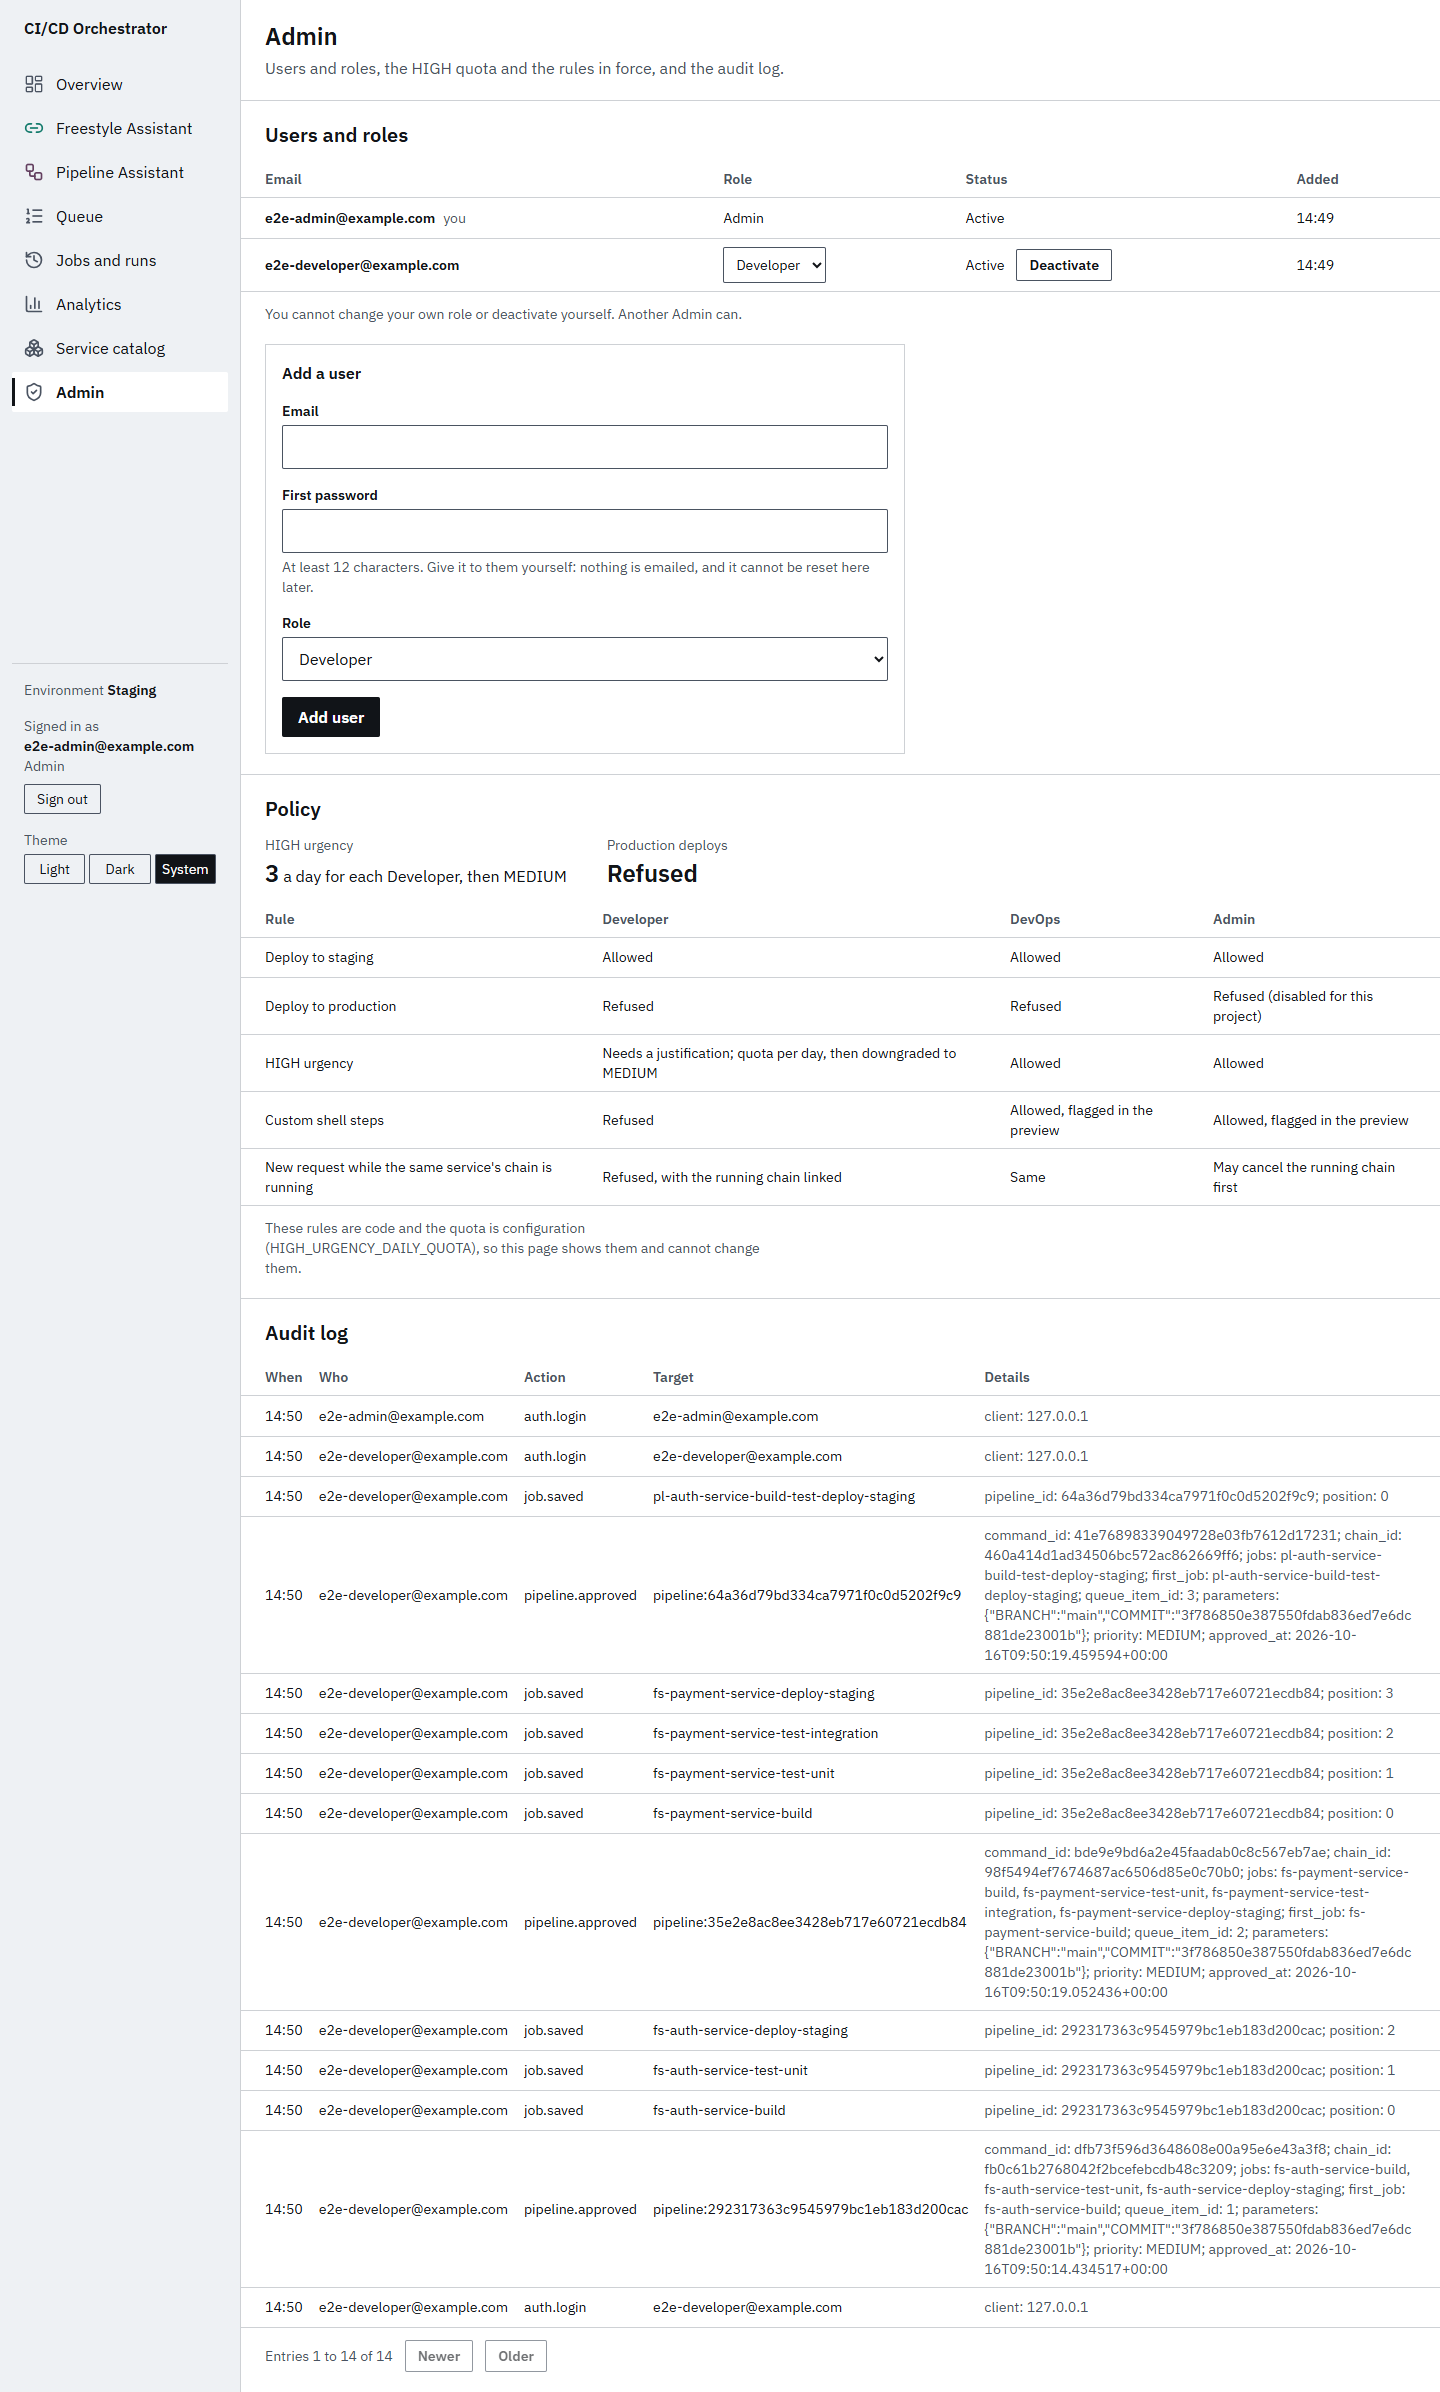
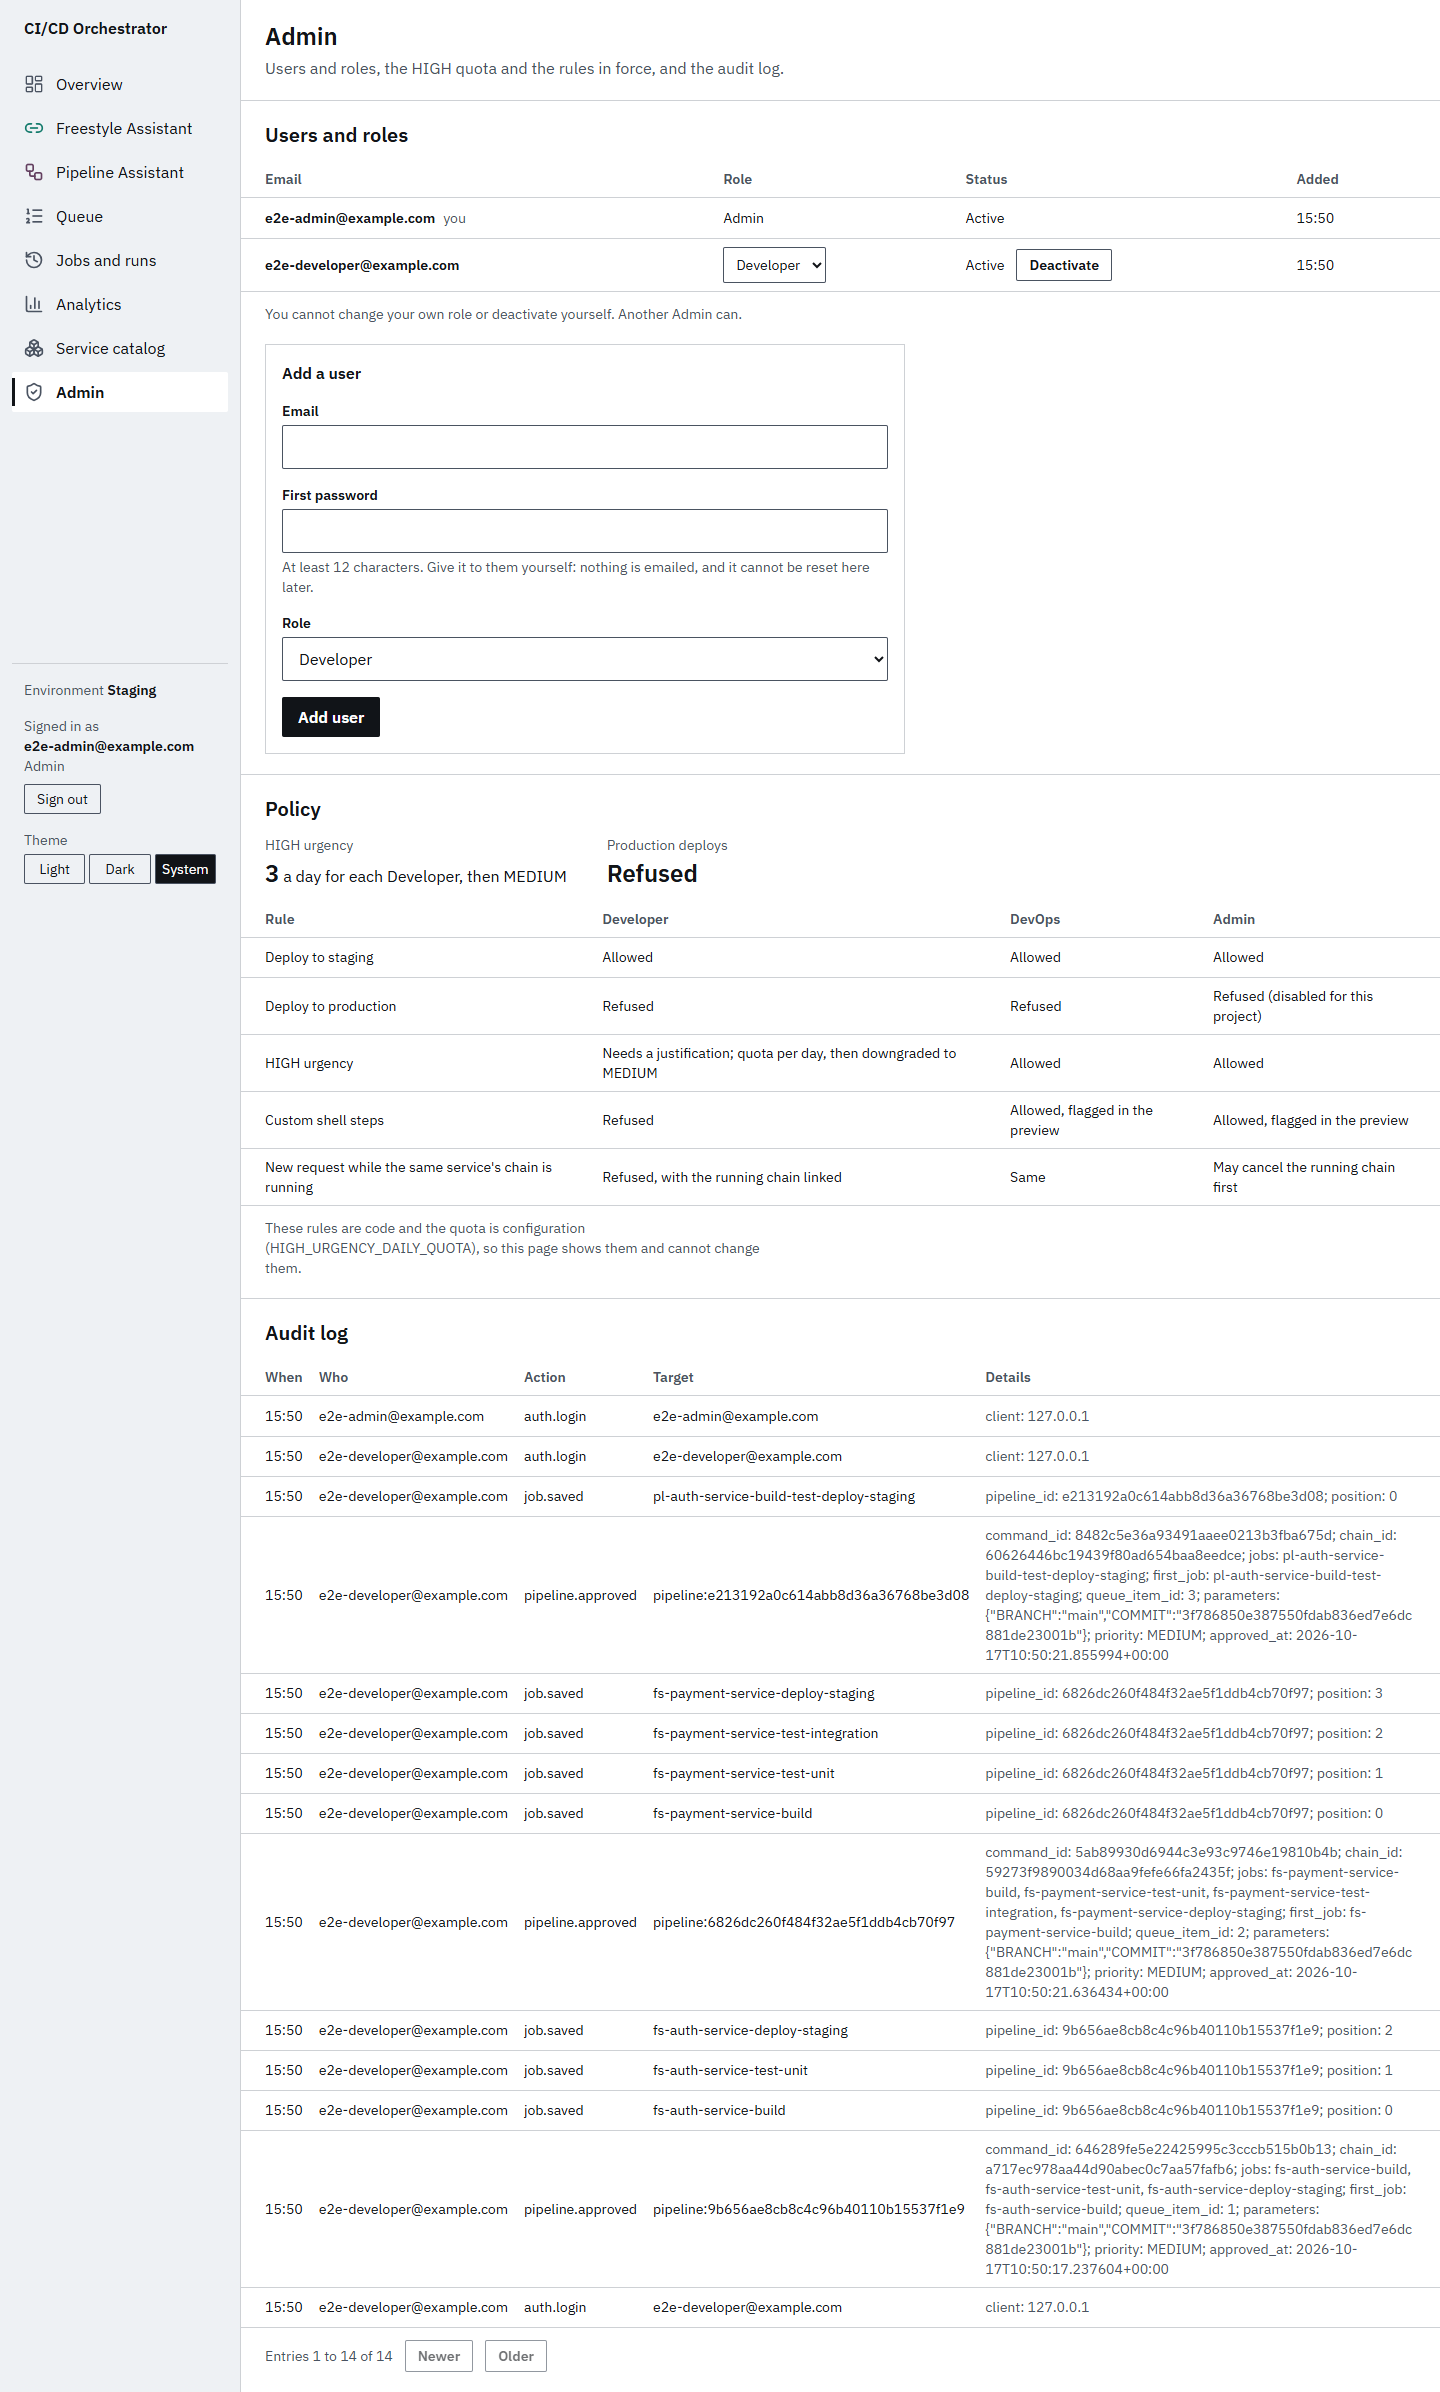
fix(frontend): open a new chat only once its first exchange is stored
The Phase 6 gate's keyboard flow showed a new chat empty against the build.
Opening the chat's address before the first message was stored let the
chat's own load read it empty and land after the reply (a race since T6.5).
The page now navigates once the exchange is stored and loaded, with a
Vitest test that fails against the old order.

The gate also crashed reading Vitest's output as cp1252, so verify.py now
reads and writes UTF-8, and a slow AssistantPage test no longer types key
by key. D-062's guess at the cause is corrected in D-063. Screenshots were
made again from this code.

Changed region(s): [[0.6875, 0.5878, 0.9688, 0.959], [0.5312, 0.8972, 0.6562, 0.9281], [0.625, 0.6497, 0.6562, 0.6806]]

diff --git a/frontend/src/pages/AssistantPage.test.tsx b/frontend/src/pages/AssistantPage.test.tsx
@@ -76,9 +76,46 @@ function renderPage(path: string, backend: FakeBackend, session: Session) {
 
 const composer = () => screen.getByRole("textbox", { name: /^Message the / });
 
-describe("an assistant page", () => {
+// The whole app, signed in, per test, and the first of them also starts it cold: 1.3 to 1.9 s on an
+// idle machine, and past the default 5 s limit while the Phase 6 gate's Jenkins builds load it. The
+// limit is about the machine, not the page, so it is wider here; every assertion is unchanged.
+describe("an assistant page", { timeout: 15_000 }, () => {
+  it("opens a new chat only once its first exchange is stored, so it never loads it empty", async () => {
+    // T6.8's flows caught the page showing a new chat empty: it was opened when created, its own
+    // load raced the send, read it empty and landed after the reply. Here the send takes a while,
+    // and no load of the chat may start before it has finished.
+    const user = userEvent.setup({ delay: null });
+    const { backend, session, store } = await backendWith(null);
+    let stored = false;
+    const loadsBeforeStored: boolean[] = [];
+    backend
+      .on("POST /api/conversations/:id/messages", async () => {
+        // Long enough for the router to have opened the chat, had it been opened on creation: at
+        // 50 ms the old order was not caught here, at 400 ms it was.
+        await new Promise((resolve) => setTimeout(resolve, 400));
+        store.messages = [captured.intentExchange.user_message, captured.intentExchange.assistant_message];
+        stored = true;
+        return json(201, captured.intentExchange);
+      })
+      .on("GET /api/conversations/:id", () => {
+        loadsBeforeStored.push(!stored);
+        return json(200, store);
+      });
+    const { router } = renderPage("/assistants/freestyle", backend, session);
+    await screen.findByText("Services it knows:");
+
+    await user.type(composer(), "Build, test and deploy payment-service to staging{Enter}");
+
+    expect(await screen.findByRole("region", { name: "Intent" })).toBeInTheDocument();
+    expect(currentPath(router)).toBe(`/assistants/freestyle/${CHAT}`);
+    expect(loadsBeforeStored.length).toBeGreaterThan(0);
+    expect(loadsBeforeStored).not.toContain(true);
+  });
+
   it("invites a first request, and makes the chat only when one is sent", async () => {
-    const user = userEvent.setup();
+    // Every key is still pressed, without a timer between them: typing fifty of them with one
+    // took this test past its 5 s limit under load, twice, during the Phase 6 gate.
+    const user = userEvent.setup({ delay: null });
     const { backend, session, store } = await backendWith(null);
     backend.on("POST /api/conversations/:id/messages", () => {
       store.messages = [

diff --git a/frontend/src/pages/AssistantPage.tsx b/frontend/src/pages/AssistantPage.tsx
@@ -102,13 +102,18 @@ export function AssistantPage({ assistant }: { assistant: AssistantKind }) {
     const abort = new AbortController();
     inFlight.current = abort;
     let id = activeId;
+    // A new chat is opened only once its first exchange is stored. Opening it as soon as it was
+    // created let the chat's own load race the send: it read the chat empty, landed after the
+    // reply, and the page showed an empty chat (caught by T6.8's flows, traced in T6.9).
+    let created: string | null = null;
     try {
       if (id === null) {
         id = (await api.createConversation(assistant)).id;
-        void navigate(`${base}/${id}`);
+        created = id;
       }
-      const exchange = await api.send(id, text, abort.signal);
-      queryClient.setQueryData<ConversationDetail>(keys.conversation(id), (current) =>
+      const chat = id;
+      const exchange = await api.send(chat, text, abort.signal);
+      queryClient.setQueryData<ConversationDetail>(keys.conversation(chat), (current) =>
         current
           ? { ...current, messages: [...current.messages, exchange.user_message, exchange.assistant_message] }
           : current,
@@ -117,7 +122,9 @@ export function AssistantPage({ assistant }: { assistant: AssistantKind }) {
         queryClient.setQueryData(keys.command(exchange.command.id), exchange.command);
       }
       await Promise.all([
-        queryClient.invalidateQueries({ queryKey: keys.conversation(id) }),
+        created
+          ? queryClient.query({ queryKey: keys.conversation(chat), queryFn: () => api.conversation(chat) })
+          : queryClient.invalidateQueries({ queryKey: keys.conversation(chat) }),
         queryClient.invalidateQueries({ queryKey: keys.conversations(assistant) }),
       ]);
     } catch (error) {
@@ -133,6 +140,10 @@ export function AssistantPage({ assistant }: { assistant: AssistantKind }) {
         void queryClient.invalidateQueries({ queryKey: keys.conversation(id) });
       }
     } finally {
+      // Stopped, failed or answered, a chat that was made is where the person now is.
+      if (created !== null) {
+        void navigate(`${base}/${created}`);
+      }
       setPending(null);
       inFlight.current = null;
     }

diff --git a/scripts/verify.py b/scripts/verify.py
@@ -96,6 +96,10 @@ def run(
         cwd=str(cwd or REPO_ROOT),
         capture_output=True,
         text=True,
+        # Tools print UTF-8, and Windows' default code page cannot decode all of it: Vitest's U+276F
+        # (byte 0x9d) crashed the reader and failed a gate run with no output (2026-10-16).
+        encoding="utf-8",
+        errors="replace",
         timeout=timeout,
         check=False,
         env={**os.environ, **env} if env else None,
@@ -2956,6 +2960,12 @@ IMPLEMENTED_PHASES = {0, 1, 2, 3, 4, 5, 6}
 
 
 def main() -> int:
+    # A check's message can quote a tool's UTF-8 output. Printed to a file or a pipe on Windows,
+    # stdout's default code page cannot encode all of it, and a failing check's message crashed a
+    # gate run before the checks after it had run (2026-10-16).
+    for stream in (sys.stdout, sys.stderr):
+        if hasattr(stream, "reconfigure"):
+            stream.reconfigure(encoding="utf-8", errors="replace")
     parser = argparse.ArgumentParser(
         prog="verify.py",
         description="Run every acceptance check for phases 0 to N.",

diff --git a/PROGRESS.md b/PROGRESS.md
@@ -1400,6 +1400,20 @@ approved on 2026-10-15; T6.2 to T6.9 are done. Open: the phase gate, and Lightho
         - **One unit test timed out once.** `npm run test` failed one test in one of four runs, at
           its 5-second limit ("invites a first request, and makes the chat only when one is sent").
           It passed alone and in the next two full runs, 290 of 290. Recorded, not loosened.
+      - **What the full gate found after a5519fa, and fixed (run on 2026-10-17, D-063):**
+        - **Run 1, 75 of 76:** `verify.py` read subprocess output as cp1252, and Vitest's U+276F
+          crashed the quality-bars check. It now reads UTF-8.
+        - **Run 2, stopped after 72 checks:** printing a failure crashed on cp1252 stdout (now
+          UTF-8). The failure was the test above, timed out at 5 s under the gate's load. It now
+          types without per-key delays, and its file allows 15 s per test.
+        - **Run 3, 76 of 77:** the keyboard flow showed an empty chat against the build. Its trace
+          showed a race from T6.5: a new chat's address was opened before its first message was
+          stored, and the chat's own load landed empty after the reply. The page now opens a new
+          chat only once its first exchange is stored. A new Vitest test failed against the old
+          order and passes now. D-062's guess (a dev-server reload) is corrected.
+        - **After the fixes:** `npm run lint`, `typecheck` and `build` are clean; `npm run test`
+          291 passed; `npx playwright test` 11 flows passed; the screenshots were made again from
+          this code (16 of 40 changed, in times and ids only) and looked at.
       - **Not done:**
         - **Lighthouse** (Phase 6 acceptance: 95 or more on both assistant pages) was not run. A
           signed-in page needs a scripted Lighthouse user flow, whose dependencies the project does
@@ -1694,3 +1708,7 @@ Details in `docs/decisions.md`.
   the build and reviewed against DESIGN.md. The review fixed four faults, among them the theme
   switch running out of the sidebar, and a new Phase 6 check covers the screenshots (D-063).
   Lighthouse and the 745 kB bundle are recorded, not done. Next: the full Phase 6 gate.
+- 2026-10-17 The full Phase 6 gate failed three times, and each failure is fixed: `verify.py` now
+  reads and writes UTF-8, a slow unit test no longer types key by key, and a race in the assistant
+  page that could show a new chat empty, there since T6.5, is fixed with a test that catches it
+  (D-063). 291 unit tests and 11 flows pass; the screenshots were made again.

diff --git a/docs/decisions.md b/docs/decisions.md
@@ -42,6 +42,21 @@ with `SCREENSHOTS=1`, because it rewrites committed files. It uses the same harn
 - **The run detail's jobs list** called a job the chain never reached "Not built", beside a run card
   that called it "not started". It now says "Not started" too (principle 4: one name per thing).
 
+**What the gate found.** The first full `verify.py --phase 6` runs after the screenshots failed, and
+none of the three failures was visual.
+- **A race in the assistant page (a real bug, from T6.5).** Sending the first message of a new chat
+  created the chat, opened its address at once, then sent the message. Opening the address started
+  the chat's own load, which could read the chat before the message was stored and arrive after the
+  reply, so the page showed an empty chat. The trace of the keyboard flow showed the load start
+  during the send and return empty after it. The page now opens a new chat only once its first
+  exchange is stored and loaded. A Vitest test holds the send open and fails if the chat is ever
+  loaded before it is stored; it failed against the old order.
+- **`verify.py` read its subprocesses as cp1252.** Vitest prints the character U+276F, which cp1252
+  cannot decode, so a reader thread died and a check crashed instead of reporting. It now reads them as
+  UTF-8, and writes its own output as UTF-8, since printing a failure could crash the same way.
+- **An assistant-page test timed out under load** at Vitest's 5 s default while the gate ran other
+  suites. It now types without per-key delays, and that file allows 15 s per test.
+
 **Left as they are, and why.**
 - **The main bundle, 745 kB:** every page is in it. Loading each page lazily from the routes is the
   fix. That is a performance change, not a visual one, so it is left for a task of its own.
@@ -95,6 +110,10 @@ limit of five sign-ins a minute. A flow that gets a 429 waits for as long as the
   two full runs and 15 repeats of the assistant flows. The likely cause is the dev server
   optimising a dependency it met on demand and reloading the page; its log did not show the
   reload, so that is not confirmed.
+- **Corrected in T6.9:** that guess was wrong. The empty chat was a race in the page, and the build
+  only made it rarer. The Phase 6 gate then hit it against the build, and its trace showed the
+  cause (D-063, "What the gate found"). The flows still use the build, because the build is what
+  users get.
 
 **Chrome as installed.** `channel: "chrome"` uses the Google Chrome on this machine and on GitHub's
 runners, so no browser is downloaded.
